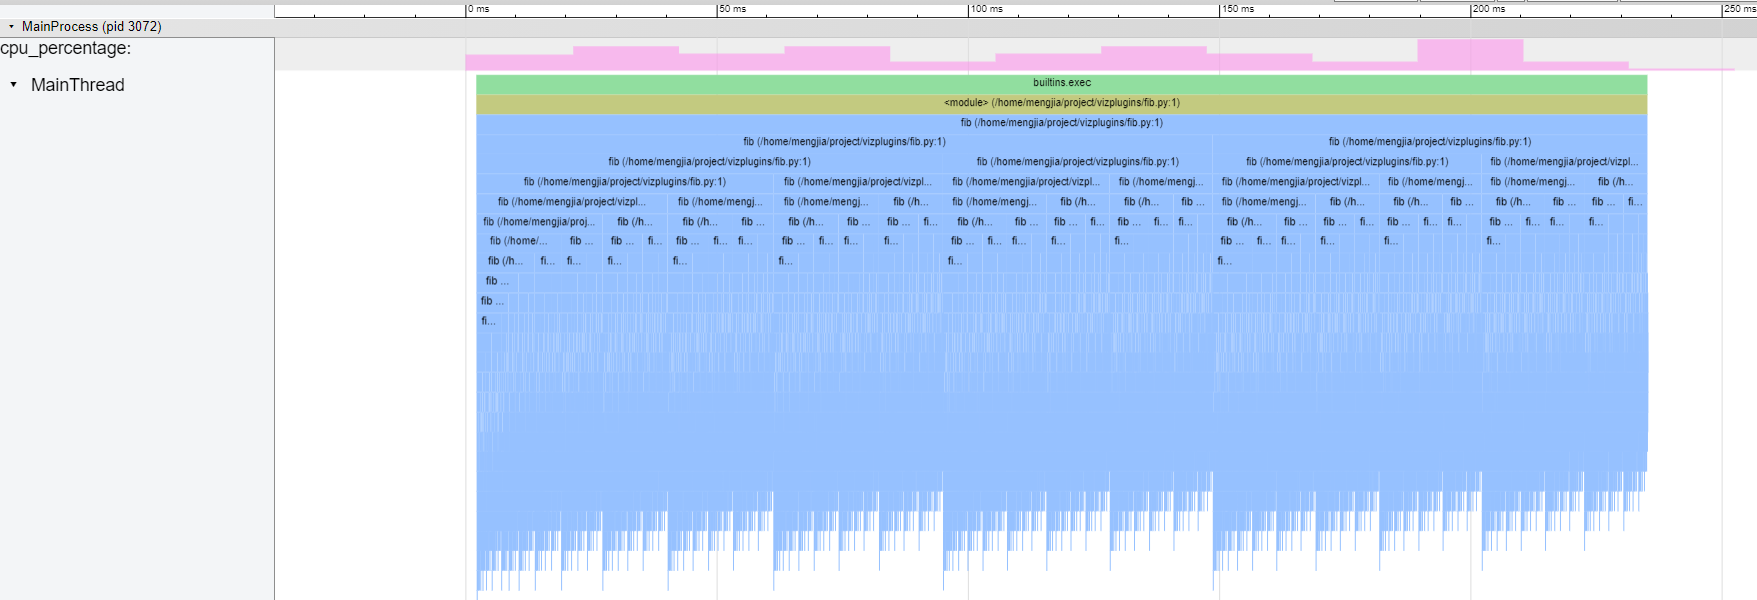
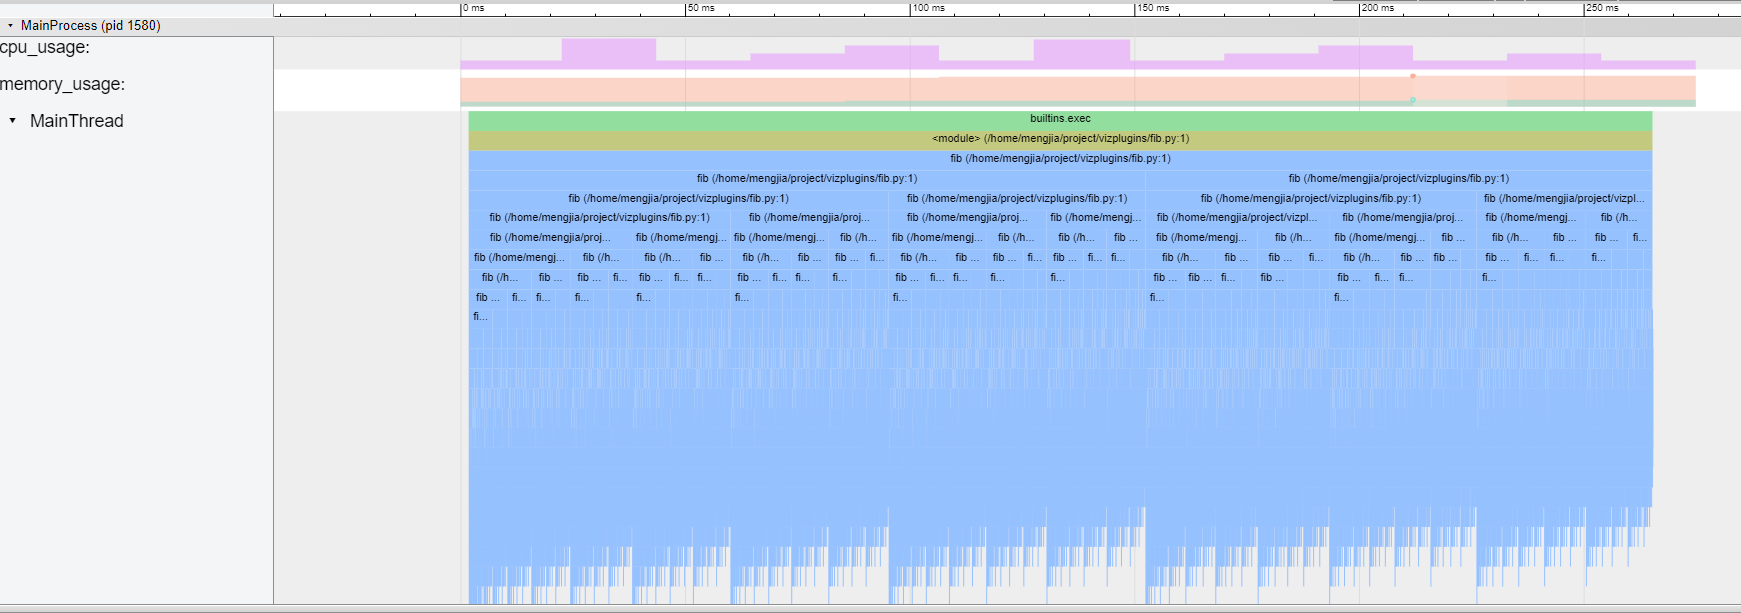
implement memory usage option (#6)
* implemented memory usage option

diff --git a/src/vizplugins/monitor_process.py b/src/vizplugins/monitor_process.py
@@ -1,0 +1,91 @@
+# licensed under the apache license: http://www.apache.org/licenses/license-2.0
+# for details: https://github.com/gaogaotiantian/vizplugins/blob/master/notice.txt
+
+import psutil
+import os
+import time
+
+
+class MonitorProcess:
+    def __init__(self, actions, data, options, interval):
+        self.actions = actions
+        self.data = data
+        self.interval = interval
+        self.options = options
+        self.state = "stopped"
+        self.parent = None
+        self.record_handlers = {"cpu_usage": self.cpu_usage_handler,
+                                "memory_usage": self.memory_usage_handler}
+        self.pack_handlers = {"cpu_usage": self.cpu_usage_pack,
+                              "memory_usage": self.memory_usage_pack}
+        self.recordings = {}
+        self.init_recording()
+
+    def __call__(self):
+        self.parent = psutil.Process(os.getppid())
+        if "cpu_usage" in self.options:
+            self.parent.cpu_percent()
+        while True:
+            data = {}
+            if not self.actions.empty():
+                action = self.actions.get()
+                if action == "start":
+                    self.state = "running"
+                    self.recordings["ts"].append(time.monotonic())
+                elif action == "stop":
+                    self.state = "stopped"
+                    # to indicate the end of recording(otherwise the last data point will not be shown)
+                    self.record_data()
+                elif action == "get-data":
+                    if self.state != "stopped":
+                        self.state = "stopped"
+                        self.record_data()
+                    data = self.pack_data()
+                    self.init_recording()
+                elif action == "terminate":
+                    break
+                self.data.put(data)
+            time.sleep(self.interval)
+            if self.state == "running":
+                self.record_data()
+                self.recordings["ts"].append(time.monotonic())
+        self.data.put({})
+
+    def record_data(self):
+        for k in self.options.keys():
+            self.record_handlers[k]()
+
+    def cpu_usage_handler(self):
+        self.recordings["cpu_percent"].append(self.parent.cpu_percent())
+
+    def memory_usage_handler(self):
+        info = self.parent.memory_info()
+        self.recordings["physical_memory"].append(info.rss)
+        self.recordings["virtual_memory"].append(info.vms)
+
+    def pack_data(self):
+        data = {}
+        for k in self.options.keys():
+            data[k] = self.pack_handlers[k]()
+        return data
+
+    def cpu_usage_pack(self):
+        zipped = []
+        for i in range(len(self.recordings["ts"])):
+            zipped.append({"ts": self.recordings["ts"][i],
+                           "arg": {"cpu_percent": self.recordings["cpu_percent"][i]}})
+        return zipped
+
+    def memory_usage_pack(self):
+        zipped = []
+        for i in range(len(self.recordings["ts"])):
+            zipped.append({"ts": self.recordings["ts"][i],
+                           "arg": {"rss": self.recordings["physical_memory"][i],
+                                   "vms": self.recordings["virtual_memory"][i]}})
+        return zipped
+
+    def init_recording(self):
+        self.recordings = {"cpu_percent": [],
+                           "physical_memory": [],
+                           "virtual_memory": [],
+                           "ts": []}

diff --git a/src/vizplugins/psutil_monitor.py b/src/vizplugins/psutil_monitor.py
@@ -1,0 +1,71 @@
+# licensed under the apache license: http://www.apache.org/licenses/license-2.0
+# for details: https://github.com/gaogaotiantian/vizplugins/blob/master/notice.txt
+
+import multiprocessing as mp
+import os
+from viztracer.vizplugin import VizPluginBase
+from .monitor_process import MonitorProcess
+
+
+class PsutilMonitor(VizPluginBase):
+    def __init__(self, options, interval):
+        super().__init__()
+        self.action_queue = mp.Queue()
+        self.data_queue = mp.Queue()
+        self.options = options
+        self.interval = interval
+
+    def support_version(self):
+        return "0.11.0"
+
+    def message(self, m_type, payload):
+        if m_type == "event":
+            if payload["when"] == "initialize":
+                return self.generate_process()
+            elif payload["when"] == "post-stop":
+                return self.stop_recording()
+            elif payload["when"] == "pre-save":
+                return self.save_data()
+            elif payload["when"] == "pre-start":
+                return self.start_recording()
+        elif m_type == "command":
+            if payload["cmd_type"] == "terminate":
+                return self.terminate()
+        return {}
+
+    def generate_process(self):
+        self.cpu_process = mp.Process(target=MonitorProcess(self.action_queue, self.data_queue, self.options, self.interval),
+                                      daemon=True)
+        self.cpu_process.start()
+        return {}
+
+    def start_recording(self):
+        return self.send_action("start")
+
+    def stop_recording(self):
+        return self.send_action("stop")
+
+    def save_data(self):
+        self.recording = self.send_action("get-data")
+        return {"action": "handle_data", "handler": self.append_data}
+
+    def append_data(self, data):
+        pid = os.getpid()
+        for k in self.recording.keys():
+            for data_point in self.recording[k]:
+                d = {"name": k,
+                     "ph": "C",
+                     "ts": data_point["ts"] * (1e6),
+                     "args": data_point["arg"],
+                     "pid": pid,
+                     "tid": pid}
+                data["traceEvents"].append(d)
+
+    def terminate(self):
+        self.send_action("terminate")
+        self.cpu_process.join()
+        return {"success": True}
+
+    def send_action(self, message):
+        self.action_queue.put(message)
+        return self.data_queue.get()

diff --git a/tests/test_cmdline.py b/tests/test_cmdline.py
@@ -19,14 +19,28 @@ time.sleep(1)
 
 
 class TestCommandLine(CmdlineTmpl):
-    def test_exist(self):
+    def test_cpu_exist(self):
         def check_func(data):
             counter = 0
             for entry in data["traceEvents"]:
-                if entry["ph"] == "C" and entry["name"] == "cpu_percentage":
+                if entry["ph"] == "C" and entry["name"] == "cpu_usage":
                     counter += 1
             self.assertGreater(counter, 0)
         self.template(["viztracer", "--plugins", "vizplugins.cpu_usage", "-o", "result.json", "cmdline_test.py"],
+                      script=file_sleep,
+                      expected_output_file="result.json",
+                      concurrency="multiprocessing",
+                      check_func=check_func)
+
+    def test_memory_exist(self):
+        def check_func(data):
+            counter = 0
+            for entry in data["traceEvents"]:
+                if entry["ph"] == "C" and entry["name"] == "memory_usage":
+                    counter += 1
+            self.assertGreater(counter, 0)
+        self.template(["viztracer", "--plugins", "vizplugins --cpu_usage --memory_usage",
+                       "-o", "result.json", "cmdline_test.py"],
                       script=file_sleep,
                       expected_output_file="result.json",
                       concurrency="multiprocessing",

diff --git a/tests/test_unit.py b/tests/test_unit.py
@@ -1,17 +1,17 @@
 from .base_tmpl import BaseTmpl
-from vizplugins.cpu_usage import PsutilCpuPercentage, MonitorCPU
+import vizplugins
 import multiprocessing as mp
 
 
 class TestBasics(BaseTmpl):
     def test_message(self):
-        cpu = PsutilCpuPercentage("")
+        cpu = vizplugins.cpu_usage.PsutilMonitor({"cpu_usage": True}, 0.02)
         self.assertDictEqual(cpu.message("dummy", {}), {})
 
     def test_process_state(self):
         action = mp.Queue()
         data = mp.Queue()
-        p = MonitorCPU(action, data, 0.05)
+        p = vizplugins.monitor_process.MonitorProcess(action, data, {"cpu_usage": True, "memory_usage": True}, 0.05)
         action.put("get-data")
         action.put("terminate")
         p.state = "running"
@@ -21,7 +21,9 @@ class TestBasics(BaseTmpl):
         self.assertEqual(p.state, "stopped")
 
     def test_frequency_option(self):
-        c1 = PsutilCpuPercentage("vizplugins.cpu_usage")
+        c1 = vizplugins.cpu_usage.get_vizplugin("vizplugins.cpu_usage")
         self.assertEqual(c1.interval, 0.02)
-        c2 = PsutilCpuPercentage("vizplugins.cpu_usage -f 20")
+        c2 = vizplugins.cpu_usage.get_vizplugin("vizplugins.cpu_usage -f 20")
+        self.assertAlmostEqual(c2.interval, 0.05)
+        c2 = vizplugins.get_vizplugin("vizplugins --cpu_usage -f 20")
         self.assertAlmostEqual(c2.interval, 0.05)

diff --git a/src/vizplugins/__init__.py b/src/vizplugins/__init__.py
@@ -1,5 +1,23 @@
 # Licensed under the Apache License: http://www.apache.org/licenses/LICENSE-2.0
 # For details: https://github.com/gaogaotiantian/vizplugins/blob/master/NOTICE.txt
 
+from .cpu_usage import PsutilMonitor
+import argparse
+
 
 __version__ = "0.1.1"
+
+
+def get_vizplugin(arg):
+    parser = argparse.ArgumentParser(prog="vizplugins")
+    parser.add_argument("-f", help="The frequency of sampling cpu usage", default=50)
+    parser.add_argument("--cpu_usage", action="store_true")
+    parser.add_argument("--memory_usage", action="store_true")
+    inputs = parser.parse_args(arg.split()[1:])
+    options = {}
+    if inputs.cpu_usage:
+        options["cpu_usage"] = True
+    if inputs.memory_usage:
+        options["memory_usage"] = True
+    interval = 1 / float(inputs.f)
+    return PsutilMonitor(options, interval)

diff --git a/src/vizplugins/memory_usage.py b/src/vizplugins/memory_usage.py
@@ -6,9 +6,9 @@ from .psutil_monitor import PsutilMonitor
 
 
 def get_vizplugin(arg):
-    parser = argparse.ArgumentParser(prog="vizplugins.cpu_usage")
+    parser = argparse.ArgumentParser(prog="vizplugins.memory_usage")
     parser.add_argument("-f", help="The frequency of sampling cpu usage", default=50)
     inputs = parser.parse_args(arg.split()[1:])
-    options = {"cpu_usage": True}
+    options = {"memory_usage": True}
     interval = 1 / float(inputs.f)
     return PsutilMonitor(options, interval)

diff --git a/README.md b/README.md
@@ -2,7 +2,7 @@
 
 [![build](https://github.com/gaogaotiantian/vizplugins/workflows/build/badge.svg)](https://github.com/gaogaotiantian/vizplugins/actions?query=workflow%3Abuild)  [![coverage](https://img.shields.io/codecov/c/github/gaogaotiantian/vizplugins)](https://codecov.io/gh/gaogaotiantian/vizplugins)  [![pypi](https://img.shields.io/pypi/v/vizplugins.svg)](https://pypi.org/project/vizplugins/)  [![support-version](https://img.shields.io/pypi/pyversions/vizplugins)](https://img.shields.io/pypi/pyversions/vizplugins)  [![license](https://img.shields.io/github/license/gaogaotiantian/vizplugins)](https://github.com/gaogaotiantian/vizplugins/blob/master/LICENSE)  [![commit](https://img.shields.io/github/last-commit/gaogaotiantian/vizplugins)](https://github.com/gaogaotiantian/vizplugins/commits/master)
 
-official plugins for VizTracer; currently support tracing cpu usage through psutil.
+official plugins for VizTracer; currently support tracing cpu and memory usage through psutil.
 
 ## Install
 
@@ -16,13 +16,13 @@ pip install vizplugins
 
 The vizplugin should be used with viztracer.
 
-You can  use VizTracer and the plugin by
+You can use VizTracer and the plugin by
 
 ```
 viztracer --plugin vizplugins.cpu_usage -- my_script.py arg1 arg2
 ```
 
-which will generate a ```result.html``` file in the directory you run this command, which you can open with Chrome.
+which will record the cpu percent of the process and generate a ```result.html``` file in the directory you run this command, which you can open with Chrome.
 
 The plugin samples cpu usage per 0.02s by default, but you can explicitly indicate the desired frequency at which to sample data per second
 
@@ -32,11 +32,18 @@ viztracer --plugin "vizplugins.cpu_usage -f 20" -- my_script.py arg1 arg2
 
 which will sample data approximately 20 times per second, with a sampling interval of 0.05 second.
 
+You can also trace the memory usage and cpu usage by
+
+```
+viztracer --plugin vizplugins --cpu_usage --memory_usage -- my_script.py arg1 arg2
+```
+
+which will record both the cpu and memory usage.
 
 ## Example
 
 The below image is an example of the resulting html, which is called on an recursively defined fibonacci funtion.
 
-The "cpu_percentage" on the top indicates the corresponding cpu usage at each time period. You can see the details by clicking on one of the periods.
+The "cpu_usage" on the top indicates the corresponding cpu usage at each time period. The "memory_usage" have two colors, representing rss(Resident Set Size, the non-swapped physical memory) and vms(Virtual Memory Size). You can see the details by clicking on one of the periods.
 
 [![example_img](https://github.com/in-the-ocean/vizplugins/blob/readme/img/fib.png)](https://github.com/in-the-ocean/vizplugins/blob/readme/img/fib.png)
